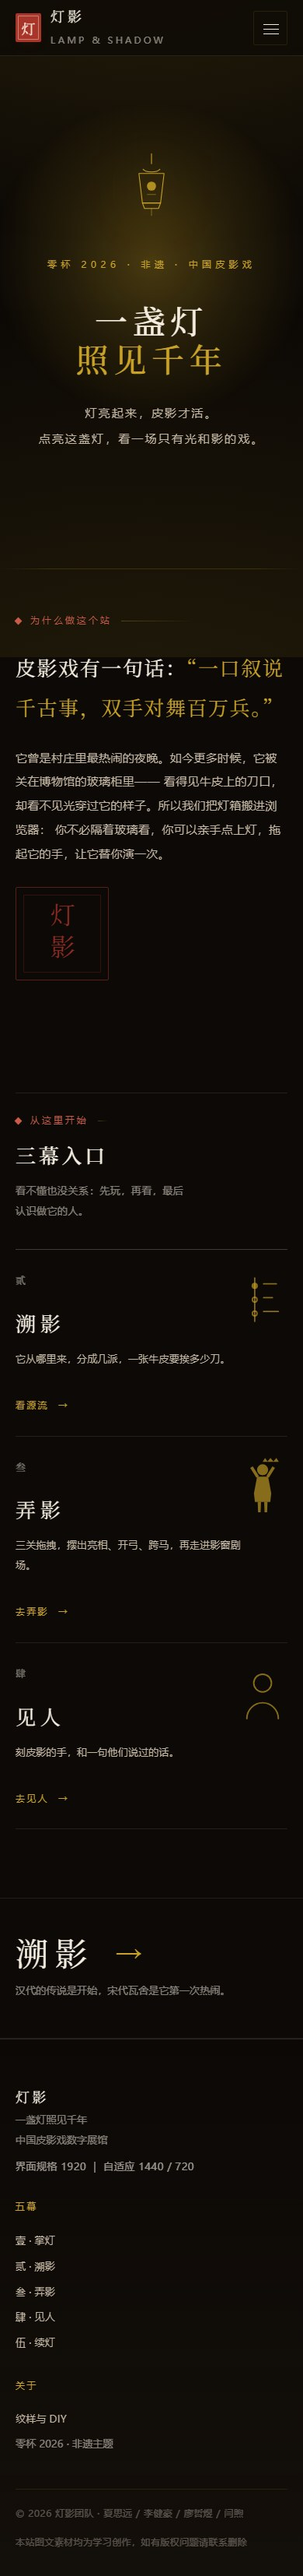
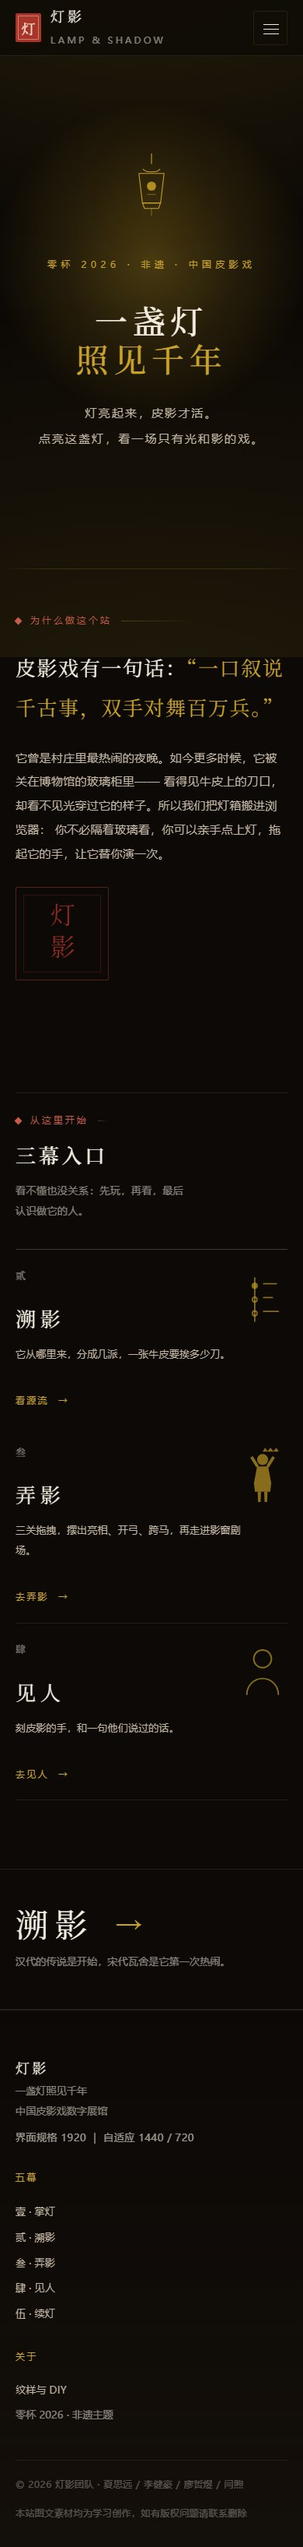
style: 入口改 1 主 2 副非对称栅格（C 方案第四步）
- .entries 由三等分改为 1.42fr / .58fr：弄影（唯一可玩的一幕）占主位并跨两行，溯影、见人 叠在右侧
- 副图版压扁、主图版标记放大到 72×98，靠结构而非字重区分主次
- 860px 以下回落单列并恢复常规内边距
- 回归：30 组审计 0 报错 0 溢出

diff --git a/web/assets/css/components.css b/web/assets/css/components.css
@@ -1247,3 +1247,33 @@ a[aria-disabled="true"],
   height: max(100%, 44px);
   background: none;
 }
+
+/* ---------- 入口：图版式非对称栅格（1 主 2 副）---------- */
+.entries {
+  grid-template-columns: minmax(0, 1.42fr) minmax(0, .58fr);
+  gap: 0 clamp(24px, 3.4vw, 56px);
+}
+.entry:nth-child(2) { grid-column: 1; grid-row: 1 / span 2; }
+.entry:nth-child(1) { grid-column: 2; grid-row: 1; }
+.entry:nth-child(3) { grid-column: 2; grid-row: 2; }
+
+/* 副图版压扁，让主图版在高度上占优 */
+.entry:nth-child(1),
+.entry:nth-child(3) { min-height: 0; padding-block: clamp(20px, 2.2vw, 30px); }
+.entry:nth-child(1) { border-bottom: 1px solid var(--hair); }
+.entry:nth-child(3) .entry__mark { top: clamp(20px, 2.2vw, 30px); }
+
+/* 主图版的标记放大一号 */
+.entry:nth-child(2) .entry__mark { width: 72px; height: 98px; }
+
+@media (max-width: 860px) {
+  .entries { grid-template-columns: 1fr; }
+  .entry:nth-child(n) {
+    grid-column: 1;
+    grid-row: auto;
+    min-height: clamp(200px, 40vw, 260px);
+    padding-block: clamp(22px, 4vw, 32px);
+  }
+  .entry:nth-child(1) { border-bottom: 0; }
+  .entry:nth-child(2) .entry__mark { width: 56px; height: 76px; }
+}
